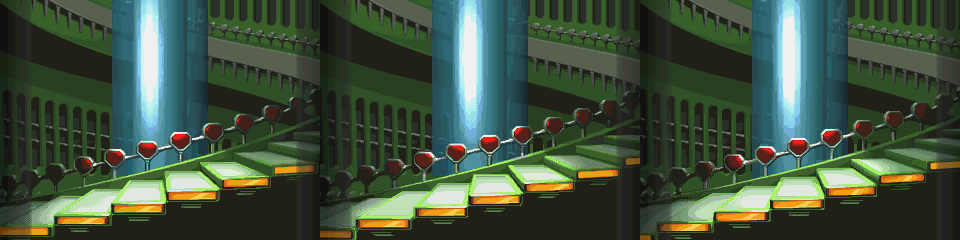
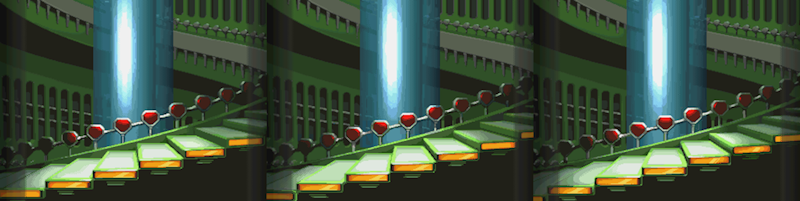
Working on Level_3.js

diff --git a/js/Game/Levels/Level_3.js b/js/Game/Levels/Level_3.js
@@ -17,14 +17,16 @@ class Level_3 extends Level {
     constructor(sprites) {
         super(
             sprites,
-            320,
-            240,
+            267,
+            201,
             {
                 fillColor: '#FFFF0077'
             },
             undefined,
             true
         );
+
+        // TODO fix the image ratios
 
         this.currentAnimation = this.createAnimation(
             0,
@@ -33,8 +35,8 @@ class Level_3 extends Level {
             3,
             1,
             0,
-            320,
-            240,
+            267,
+            201,
             0,
             0,
             1

diff --git a/js/index.js b/js/index.js
@@ -59,7 +59,7 @@ const ShootingState = {
 }
 
 
-const l1 = new Level_1([txt]);
+const l1 = new Level_2([txt]);
 g.insertSprite(l1);
 
 
@@ -173,7 +173,7 @@ const x = new Player(500, 300, l1.scale, (ignored) => {
 });
 
 const hpB = new HealthBar(
-    HealthBarType.x,
+    HealthBarType.zero,
     x,
     l1.scale
 );

diff --git a/js/Game/Sprites/HealthBar.js b/js/Game/Sprites/HealthBar.js
@@ -272,7 +272,7 @@ class HealthBar extends Sprite {
             this.drawAnimation(
                 this.#livesAnimation,
                 this.rx - 11 * this.scale,
-                this.by - 12.5 * this.scale,
+                this.by - 12.7 * this.scale,
                 context
             );
         }
